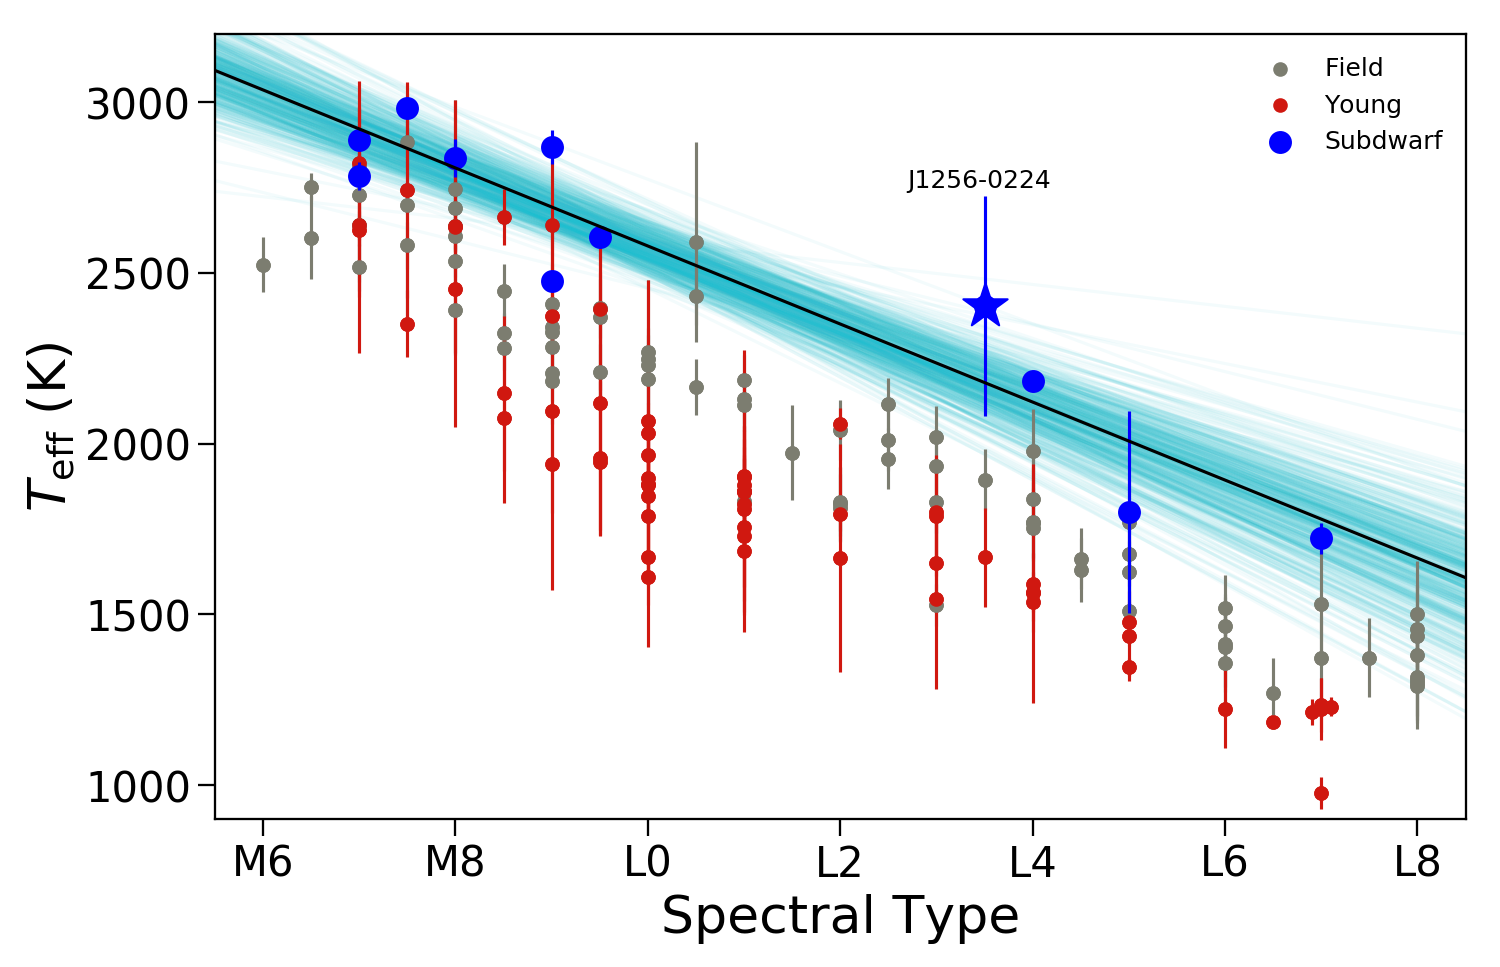
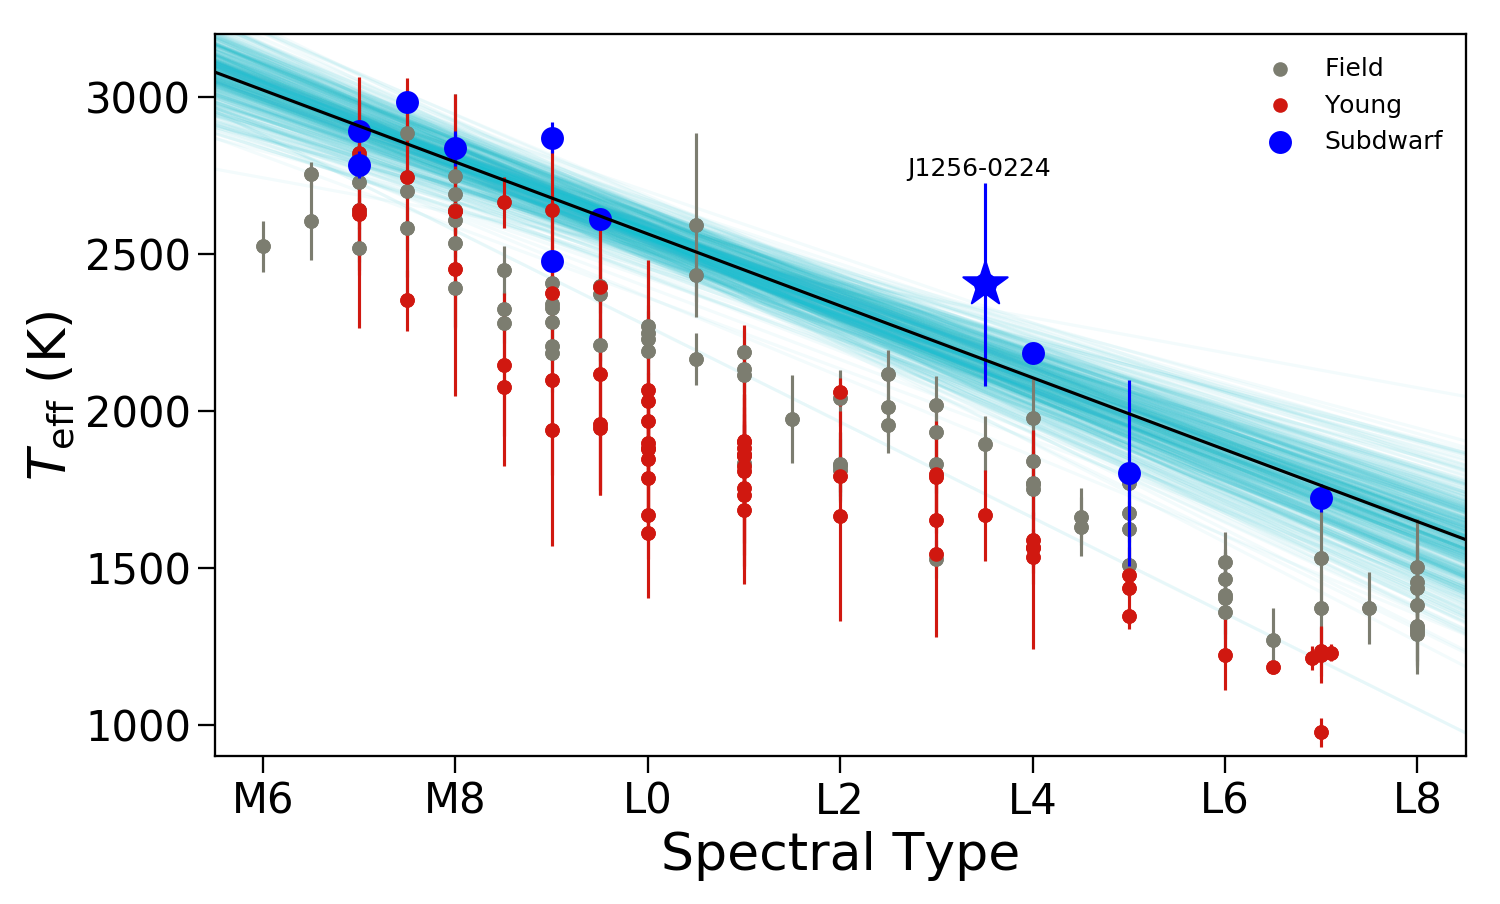
Updated plots with new params fro 1013 w/o W3 photometry

diff --git a/FullspectraSubdwarfs.py b/FullspectraSubdwarfs.py
@@ -258,7 +258,7 @@ ax1.annotate('CIA H$_\mathrm{2} $', xy=(2, 5.3), color='k', fontsize=12)
 
 # ------- Label Sources -------------
 ax1.text(0.72, 0.11, 'J1013-1356 (sdM9.5)', transform=ax1.transAxes, color='#015DF7', fontsize=12)
-ax1.text(0.72, 0.07, '$T_\mathrm{eff}: 2606 \pm 32$ K', transform=ax1.transAxes, color='#015DF7', fontsize=12)
+ax1.text(0.72, 0.07, '$T_\mathrm{eff}: 2610 \pm 32$ K', transform=ax1.transAxes, color='#015DF7', fontsize=12)
 ax1.text(0.72, 0.29, 'LHS 377 (sdM7)', transform=ax1.transAxes, color='#01A1D6',  fontsize=12)
 ax1.text(0.72, 0.25, '$T_\mathrm{eff}: 2784 \pm 42$ K', transform=ax1.transAxes, color='#01A1D6', fontsize=12)
 ax1.text(0.72, 0.52, 'HD114762$\,$B (d/sdM9)', transform=ax1.transAxes, color='#09D67E', fontsize=12)

diff --git a/Subdwarfs_redoptical.py b/Subdwarfs_redoptical.py
@@ -112,7 +112,7 @@ ax1.text(0.005, 0.34, 'J1256-0224 (sdL3.5) $T_\mathrm{eff}: 2400 \pm 320$ K', tr
          fontsize=12)
 ax1.text(0.005, 0.43, 'J1444-2019 (sdM9) $T_\mathrm{eff}: 2477 \pm 13$ K', transform=ax1.transAxes, color='mediumblue',
          fontsize=12)
-ax1.text(0.005, 0.52, 'J1013-1356 (sdM9.5) $T_\mathrm{eff}: 2606 \pm 32$ K', transform=ax1.transAxes, color='#015DF7',
+ax1.text(0.005, 0.52, 'J1013-1356 (sdM9.5) $T_\mathrm{eff}: 2610 \pm 32$ K', transform=ax1.transAxes, color='#015DF7',
          fontsize=12)
 ax1.text(0.005, 0.615, 'LHS 377 (sdM7) $T_\mathrm{eff}: 2784 \pm 42$ K', transform=ax1.transAxes, color='#01A1D6',
          fontsize=12)
